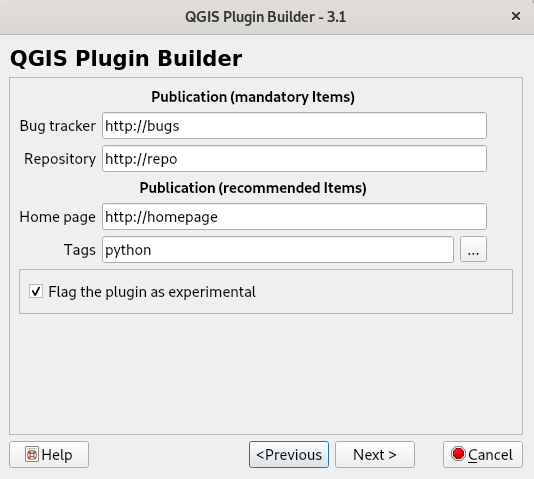
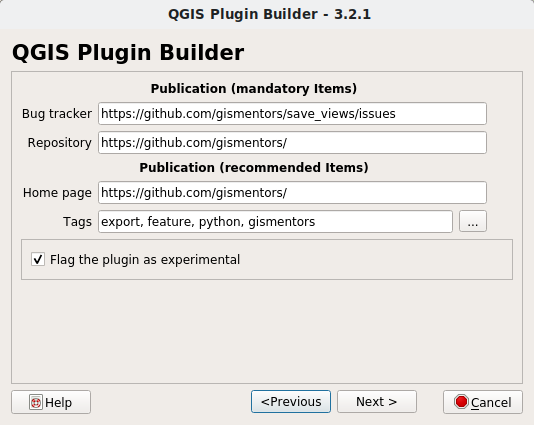
update images/ fix start plugin issues

Changed region(s): [[0.0, 0.0, 1.0, 0.9788]]

diff --git a/start_plugin.rst b/start_plugin.rst
@@ -2,14 +2,15 @@
 Start QGIS Plugin
 #################
 
-Start the ``Plugin Builder`` plugin and fill necessary inputs. In the first step,
-we are going to fill the names for Python classes and module names.
+Start the ``Plugin Builder`` plugin and fill necessary inputs. In the
+first step, we are going to specify name of Python class, module name,
+short description, etc.
 
 .. figure:: images/plugin_builder0.png
 
-        Initialization of new QGIS Plugin
+        Initialization of a new QGIS Plugin
 
-.. note:: Don't use ``.py`` (or any extensions) in the names.
+.. warning:: Don't use ``.py`` (or any extensions) in the module name.
           
 In the next screen, fill longer description of the plugin.
 
@@ -22,9 +23,9 @@ In the next screen, set visual appearance of the plugin. We will use
 
 .. figure:: images/plugin_builder2.png
 
-   Choosing visual representation of new plugin
+   Choosing visual representation of a new plugin
    
-There ware three possibilities of the dialog:
+There are three options:
 
 * Tool button with dialog
 * Tool button with dockwidget
@@ -35,26 +36,25 @@ generate for us. We shall leave all checked.
 
 .. figure:: images/plugin_builder3.png
 
-   Helper scripts to be generated.
+   Helper metafiles to be generated.
 
-..
-  .. figure:: images/plugin_builder4.png
+In the next step fill important URLs which is important for later
+publication of a plugin.
 
-        Picking required metafiles
-
-In the next step you need to fill important URLs. It is good to fill the URLs
-for later publications.
-
-.. figure:: images/plugin_builder5.png
+.. figure:: images/plugin_builder4.png
 
         Filling required URLs
 
 In the last step, we pick the location of the new created plugin. You can pick any
 location in your computer.
 
+.. figure:: images/plugin_builder5.png
+
+   Set output folder for a plugin.
+
 .. figure:: images/plugin_builder6.png
 
-        Filling required URLs
+    Summary
 
 .. note:: On Microsoft Windows at this point, you may see error message about
    :program:`pyrcc5` script not being available in your system and therefore it
